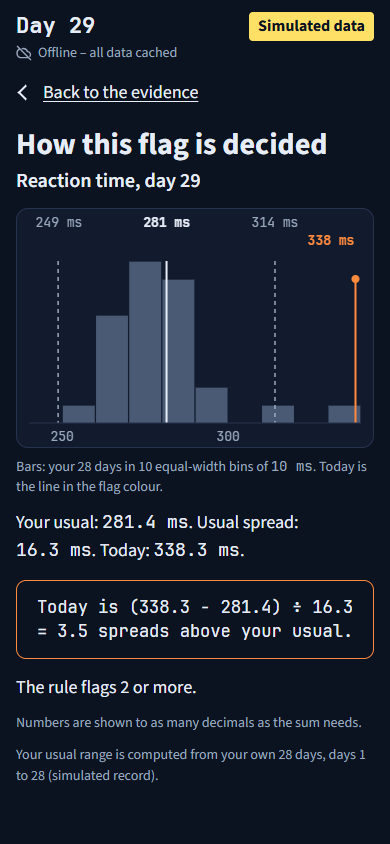
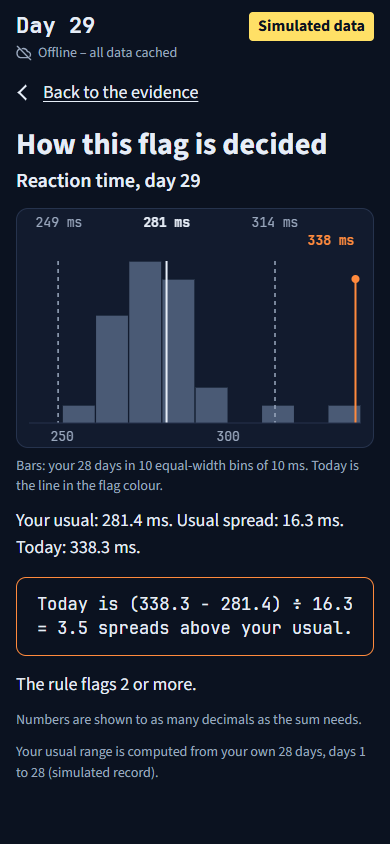
Final screen fixes: crew badge on one line; inline values in Source Sans 3 with tabular figures

diff --git a/index.html b/index.html
@@ -64,7 +64,8 @@ a { color: inherit; text-underline-offset: 3px; }
   border: 1.5px solid var(--ink); border-radius: 6px; background: none; color: var(--ink);
   font-weight: 600; cursor: pointer;
 }
-.n { font-family: var(--mono); white-space: nowrap; } /* a number and its unit inside a sentence (app.js monoNums) */
+.n { font-variant-numeric: tabular-nums; white-space: nowrap; } /* a number and its unit inside a sentence (app.js monoNums): the sentence's own font, tabular figures */
+#b1-reading .n, #b1-level .n { font-family: var(--mono); } /* the solar alert readouts stand alone: number font */
 .text-button.back { display: flex; align-items: center; gap: 12px; color: var(--ink); font-size: 18px; }
 .back::before { content: ""; width: 9px; height: 9px; margin-left: 4px; border-left: 2px solid currentColor; border-bottom: 2px solid currentColor; transform: rotate(45deg); }
 .text-button {
@@ -281,7 +282,7 @@ fieldset { border: 0; padding: 0; margin: 28px 0 0; min-width: 0; }
 .crew-row.watch { border-left-style: dotted; }
 .crew-row strong { display: block; font-size: 22px; }
 .crew-row .secondary { width: auto; margin: 0; min-height: 44px; padding: 8px 20px; }
-.crew-count { display: inline-block; margin-top: 4px; padding: 0 12px; border: 1.5px solid var(--strong); border-radius: 999px; font-family: var(--mono); font-size: 16px; }
+.crew-count { display: inline-block; margin-top: 4px; padding: 0 12px; border: 1.5px solid var(--strong); border-radius: 999px; font-family: var(--mono); font-size: 16px; white-space: nowrap; flex-shrink: 0; }
 .flagged .crew-count { border-color: var(--flag); color: var(--flag); }
 .crew-flag > span { display: block; }
 .crew-rail { padding: 16px 20px; border: 1px solid var(--card-border); border-radius: 12px; background: var(--card); }
@@ -289,7 +290,7 @@ fieldset { border: 0; padding: 0; margin: 28px 0 0; min-width: 0; }
 .crew-rail .message { margin: 12px 0; }
 .crew-rail .message p:first-child { font-weight: 700; }
 .crew-rail .message p:last-child { margin-bottom: 0; }
-@media (min-width: 700px) { .crew-row { grid-template-columns: 200px minmax(0, 1fr) auto; align-items: center; } }
+@media (min-width: 700px) { .crew-row { grid-template-columns: minmax(200px, max-content) minmax(0, 1fr) auto; align-items: center; } } /* the name column grows to fit its badge */
 @media (min-width: 900px) { .crew-grid { grid-template-columns: minmax(0, 1fr) 440px; align-items: start; } }
 </style>
 </head>
